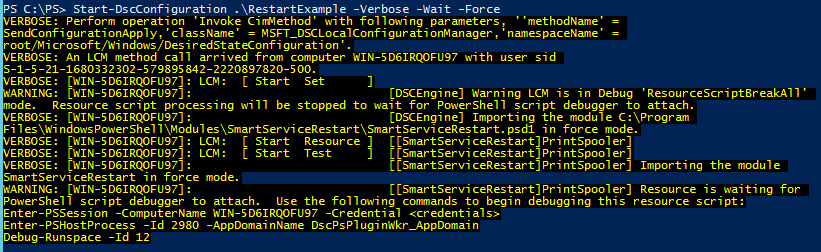
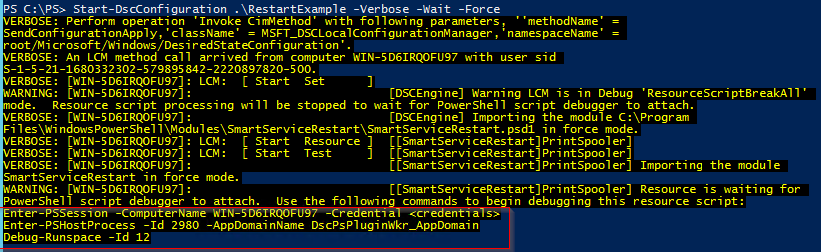
Debugging

Changed region(s): [[0.0, 0.8056, 0.6395, 1.0]]

diff --git a/_posts/2017-05-24-Creating A DSC Class-Based Resource.md b/_posts/2017-05-24-Creating A DSC Class-Based Resource.md
@@ -2,14 +2,17 @@
 layout: post
 title: Creating A DSC Class-Based Resource
 ---
+
 Now that we know what a PowerShell class is, it's time we start putting them to use.
 Classes are new with version 5 and one of the best places for them is DSC. 
 While the syntax maybe different, all the DSC concepts are the same.
 If you need a refresher on the basics of a PowerShell class, please see my previous post, [Intro to PowerShell Classes.](http://overpoweredshell.com/Introduction-to-PowerShell-Classes/)
 
 **The Good Stuff:**
+
 How to create a DSC Class-Based Resource.
 <!-- more -->
+
 <!-- TOC -->
 
 - [Why Use Classes](#why-use-classes)
@@ -31,15 +34,20 @@ How to create a DSC Class-Based Resource.
 - [Wrapping Up](#wrapping-up)
 
 <!-- /TOC -->
+
 # Why Use Classes
-I always felt that creating a MOF-Based resource was clunky. 
-Writing the functions was pretty straight forward but I didn't like having to generate the schema mof. 
-This was especially true if I had to add additional parameters to the resource. 
+
+I always felt that creating a MOF-Based resource was clunky.
+Writing the functions was pretty straight forward but I didn't like having to generate the schema mof.
+This was especially true if I had to add parameters to the resource.
 Classes just make working with DSC easier and you never had to touch the resource designer kit again.
+
 # Declaring A Resource
+
 The example for today will be a resource to update the drive label.
 To define our new resource, we start by creating a class.
-The only difference is, just before the class declaration we're going to add the ```[DSCResource]``` attribute.
+The difference is, before the class declaration we're going to add the ```[DSCResource]``` attribute.
+
 ```powershell
 [DscResource()]
 class DriveLabel
@@ -47,10 +55,13 @@ class DriveLabel
 
 }
 ```
+
 ## Resource Parameters - Properties
-Resource parameters are just properties to the DSC class. 
+
+Resource parameters are properties to the DSC class.
 In this example, we are going to add a ```DriveLetter``` and ```Label``` parameter.
-Just like any class, we will prefix these properties with their types.
+Like any class, we will prefix these properties with their types.
+
 ```powershell
 [DscResource()]
 class DriveLabel
@@ -62,12 +73,15 @@ class DriveLabel
     $Label
 }
 ```
+
 ### DscProperty - Key
+
 We want to prevent the user from trying to define two labels for the same drive. 
 To accomplish this, we'll assign the ```$DriveLabel``` parameter the ```[DscProperty(Key)]``` attribute.
 This key attribute uniquely identifies the instance of a DSC resource.
 This is important because we cannot have multiple DSC resources in a configuration share the same key.
 When creating our own resources, we must define at least one parameter as the key field.
+
 ```powershell
 class DriveLabel
 {
@@ -79,10 +93,13 @@ class DriveLabel
     $Label
 }
 ```
+
 ### DscProperty - Mandatory
+
 Assigning a parameter the ```[DscProperty(Mandatory)]``` attribute does exactly what it sounds like.
 We can use this attribute when we want to ensure our user sets this value in their configuration.
 For our example below, we will tag the ```$Label``` parameter mandatory.
+
 ```powershell
 class DriveLabel
 {
@@ -95,13 +112,16 @@ class DriveLabel
     $Label
 }
 ```
+
 ### DscProperty - NotConfigurable
+
 The ```[DscProperty(NotConfigurable)]``` attribute is used in a couple of scenarios.
 The first is if we want to include additional information to our user in the ```Get``` Method.
 This can be helpful for reporting purposes.
 Here we'll add a new property for the filesystem type.
 Our ```Get``` method will then populate this property before returning it back to the user. 
 Since this new property is ```NotConfigurable``` it will not be a parameter to the resource.
+
 ```powershell
 [DscResource()]
 class DriveLabel
@@ -119,16 +139,22 @@ class DriveLabel
     $FileSystemType
 }
 ```
+
 The next big scenario to use a ```NotConfigurable``` property is when two methods need to share information. 
 This use case will be covered in an upcoming post. 
+
 ## The Big Three Methods
+
 All DSC Class-Based resources must override the next three methods. 
 Each of these methods should be implemented with no parameters.
+
 ### Get 
+
 The main responsibility of the ```Get``` method is to check the current state of the resource. 
 When defining the ```Get``` method, prefix it with the type of the class.
 Once all processing is complete, return ```$this```. 
 Here's what that would look like for our drive label example.
+
 ```powershell
 [DscResource()]
 class DriveLabel
@@ -144,10 +170,13 @@ class DriveLabel
 ...
 }
 ```
+
 ### Test
+
 The ```Test``` method is responsible for checking if this current state matches our desired state.
 When defining the ```Test``` method make sure it has a return type of ```[bool]```.
 Below we will test if the drive label matches the user supplied value.
+
 ```powershell
 [DscResource()]
 class DriveLabel
@@ -162,10 +191,13 @@ class DriveLabel
 ...
 }
 ```
+
 ### Set
+
 The ```Set``` method needs to enforce our actual desired state.
 Considering we are not expecting output, this method should be prefixed with the ```[void]``` type.
 In our current example, we will use the ```Set-Volume``` cmdlet to update the label.
+
 ```powershell
 [DscResource()]
 class DriveLabel
@@ -179,17 +211,23 @@ class DriveLabel
     }
 }
 ```
+
 # Creating The Module Structure
+
 The structure of a DSC Classed-Based resource is the same as any other module.
 First we'll need a new directory to hold all of our files.
+
 ```powershell
 New-Item -Path DCDisk -ItemType Directory
 ```
+
 ## Module Manifest
+
 Inside of the directory we're going to need a manifest.
 My list of parameters gets a little long so I like to create a hashtable and splat them into the ```New-ModuleManifest``` cmdlet.
 Be sure to notice the ```DscResourcesToExport``` key.
 Remember that as you add resources to a module, this value needs to be updated inside of the manifest.
+
 ```powershell
 $manifestProperties = @{
     Path = 'DCDisk.psd1'
@@ -204,9 +242,12 @@ $manifestProperties = @{
 
 New-ModuleManifest @manifestProperties
 ```
+
 ## PSM1 Module
+
 Next we'll create a new psm1 named ```DCDisk.psm1```.
 Here we'll place our completed class.
+
 ```powershell
 [DscResource()]
 class DriveLabel
@@ -246,17 +287,24 @@ class DriveLabel
     }
 }
 ```
+
 With these two files saved, we can place the entire folder in our module directory (```"$Env:ProgramFiles\WindowsPowerShell\Modules\"```).
+
 # Working With The Resource
+
 ## Checking Syntax
+
 Now we need to see if our resource is properly registered.
 To do this, we can call the ```Get-DscResource``` cmdlet.
 I also include the ```Syntax``` switch to inspect the parameters.
 Two birds one stone.
+
 ```powershell
 Get-DscResource -Name DriveLabel -Syntax
 ```
+
 Output:
+
 ```powershell
 DriveLabel [String] #ResourceName
 {
@@ -266,9 +314,12 @@ DriveLabel [String] #ResourceName
     [PsDscRunAsCredential = [PSCredential]]
 }
 ```
+
 ## Creating A Configuration
-Ok moment of truth. 
+
+Ok moment of truth.
 Let's create a configuration to test the new resource.
+
 ```powershell
 configuration DiskConfig
 {
@@ -283,8 +334,10 @@ configuration DiskConfig
     }
 }
 ```
+
 The only thing left to do, is run the config.
 The below commands will create the localhost mof in the ```C:\PS``` directory and then execute it.
+
 ```powershell
 New-Item -ItemType Directory -Path C:\PS -Verbose -ErrorAction SilentlyContinue
 Push-Location -Path C:\PS
@@ -292,18 +345,23 @@ DiskConfig
 Start-DscConfiguration .\DiskConfig -Verbose -Wait -Force 
 Pop-Location 
 ```
+
 Here's a screen shot of our resource in action.
 ![_config.yml]({{ site.baseurl }}/images/dscClassesRun.png)
 
 We also had the ```NotConfigurable``` property for the file system type.
 While it wasn't a parameter, it is present in the get method. 
 This screen shot shows our complete class. 
+
 ```powershell
 Get-DscConfiguration
 ```
+
 ![_config.yml]({{ site.baseurl }}/images/dscClassesGet.png)
+
 # Wrapping Up
-Thats really it for a basic DSC Class-Based resource.
+
+Thats it for a basic DSC Class-Based resource.
 I hope this post was helpful and points you in the right direction creating your own resources.
 Coming up in a future post, we'll cover a more complex example and talk about some troubleshooting techniques.
 

diff --git a/_drafts/Troubleshooting DSC.md b/_drafts/Troubleshooting DSC.md
@@ -22,8 +22,9 @@ How to we debug when something goes wrong.
         - [Debug the Method](#debug-the-method)
     - [Debug DSC](#debug-dsc)
         - [Adjust The LCM](#adjust-the-lcm)
-        - [Creating A Small Configuration](#creating-a-small-configuration)
-        - [Entering The Session](#entering-the-session)
+        - [Create A Small Configuration](#create-a-small-configuration)
+        - [Enter The Session](#enter-the-session)
+- [Wrapping Up](#wrapping-up)
 
 <!-- /TOC -->
 
@@ -86,26 +87,30 @@ $VerbosePreference = $ogVerbosePerf
 ```
 
 Once you get into the debugger its no different then working with any other function.
-Here's a screen shot of it in action in VSCode (any editor with a debugger will work).
+This is ideal if you need to make quick changes and are still hammering out the details of the resource.
+Here's a screen shot of it in action in VSCode.
+VSCode is awesome, but any editor that has a PowerShell debugger works.
 ![debug](https://github.com/dchristian3188/dchristian3188.github.io/blob/master/images/classDebugGif.gif)
 
 ## Debug DSC
 
 The next approach is not exclusive to Class-Based resource.
 Version 5 of PowerShell introduced some new DSC debugging capabilities.
+One of the coolest features is the ability to stop a configuration and debug against a live server.
 I tend to use this approach when I'm having trouble with a particular configuration, I.E. this resource on this role in this environment blows up for some reason.
 
 ### Adjust The LCM
 
 The first thing you need to do is enable debugging at the LCM level.
-Thankfully, the PowerShell team provided a cmdlet fo this.
+Thankfully, the PowerShell team provided a cmdlet for this.
 
 ```powershell
 Enable-DscDebug -BreakAll -Verbose
 ```
 
-After running the command you can verify debugging is enabled by checking the LCM using ```Get-DscLocalConfigurationManager```.
-The below example, returns the debugging configuration.
+After you run the command, verify the changes by using ```Get-DscLocalConfigurationManager```.
+The below example, returns the debug mode of the LCM.
+You should see the two entries below.
 
 ```powershell
 (Get-DscLocalConfigurationManager).DebugMode
@@ -118,10 +123,12 @@ ForceModuleImport
 ResourceScriptBreakAll
 ```
 
-### Creating A Small Configuration
+### Create A Small Configuration
 
 To make isolating the problem easier, create a configuration with only the resource you want to debug.
-In this example, I'm going to debug the
+When you make the change to the LCM, it will break at every resource.
+In large configurations, this becomes tedious and makes re-entering a method harder than it should be.
+Here's what that would look like in our current example.
 
 ```powershell
 configuration RestartExample
@@ -138,17 +145,39 @@ configuration RestartExample
 }
 ```
 
-### Entering The Session
+### Enter The Session
 
-When we run the configuration it will immediately pause
+When we run the configuration it will start the first resource and hit a breakpoint.
+The most awesome part, is the PowerShell team left us a message on how to connect to this instance.
+Take a look at this screenshot.
 
 ![_config.yml]({{ site.baseurl }}/images/dscClassDebug.png)
 
+Lets examine what's going on here.
+The first command creates a PSSession to the server.
+In my example, I'm directly on the server, but I could also do this remotely.
+The next command connects to the PowerShell process that is running the resource.
+The last command, ```Debug-Runspace```, is where the magic happens.
+Running this command will open a new window in our editor and allow us to step through the method.
+Here's the commands that I copied from the verbose message.
+
 ```powershell
-Enter-PSSession -ComputerName WIN-5D6IRQOFU97 
+Enter-PSSession -ComputerName WIN-5D6IRQOFU97
 Enter-PSHostProcess -Id 2980 -AppDomainName DscPsPluginWkr_AppDomain
 Debug-Runspace -Id 12
 ```
-![_config.yml]({{ site.baseurl }}/images/dscClassDebug1.png)
 
+What I love about this approach is that its perfect for those problematic servers.
+Sometimes the only way to find a bug is to step through the affected machine.
+Even better this debugging technique works great in Windows Server, with a vanilla ISE.
+Here's the whole process from a Server 2012 VM.
 ![debug](https://github.com/dchristian3188/dchristian3188.github.io/blob/master/images/classDebugDSCGif.gif)
+
+# Wrapping Up
+
+This was a fun one for me.
+I hope you learned some new tools to make tracking down problematic resources.
+
+* Part 1: [Creating A DSC Class-Based Resource](http://overpoweredshell.com/Creating-A-DSC-Class-Based-Resource/)
+* Part 2: [DSC Classes - Using Helper Methods](http://overpoweredshell.com/DSC-Classes-Using-Helper-Methods/)
+* Part 3: TroubleShooting DSC (Coming Soon)
